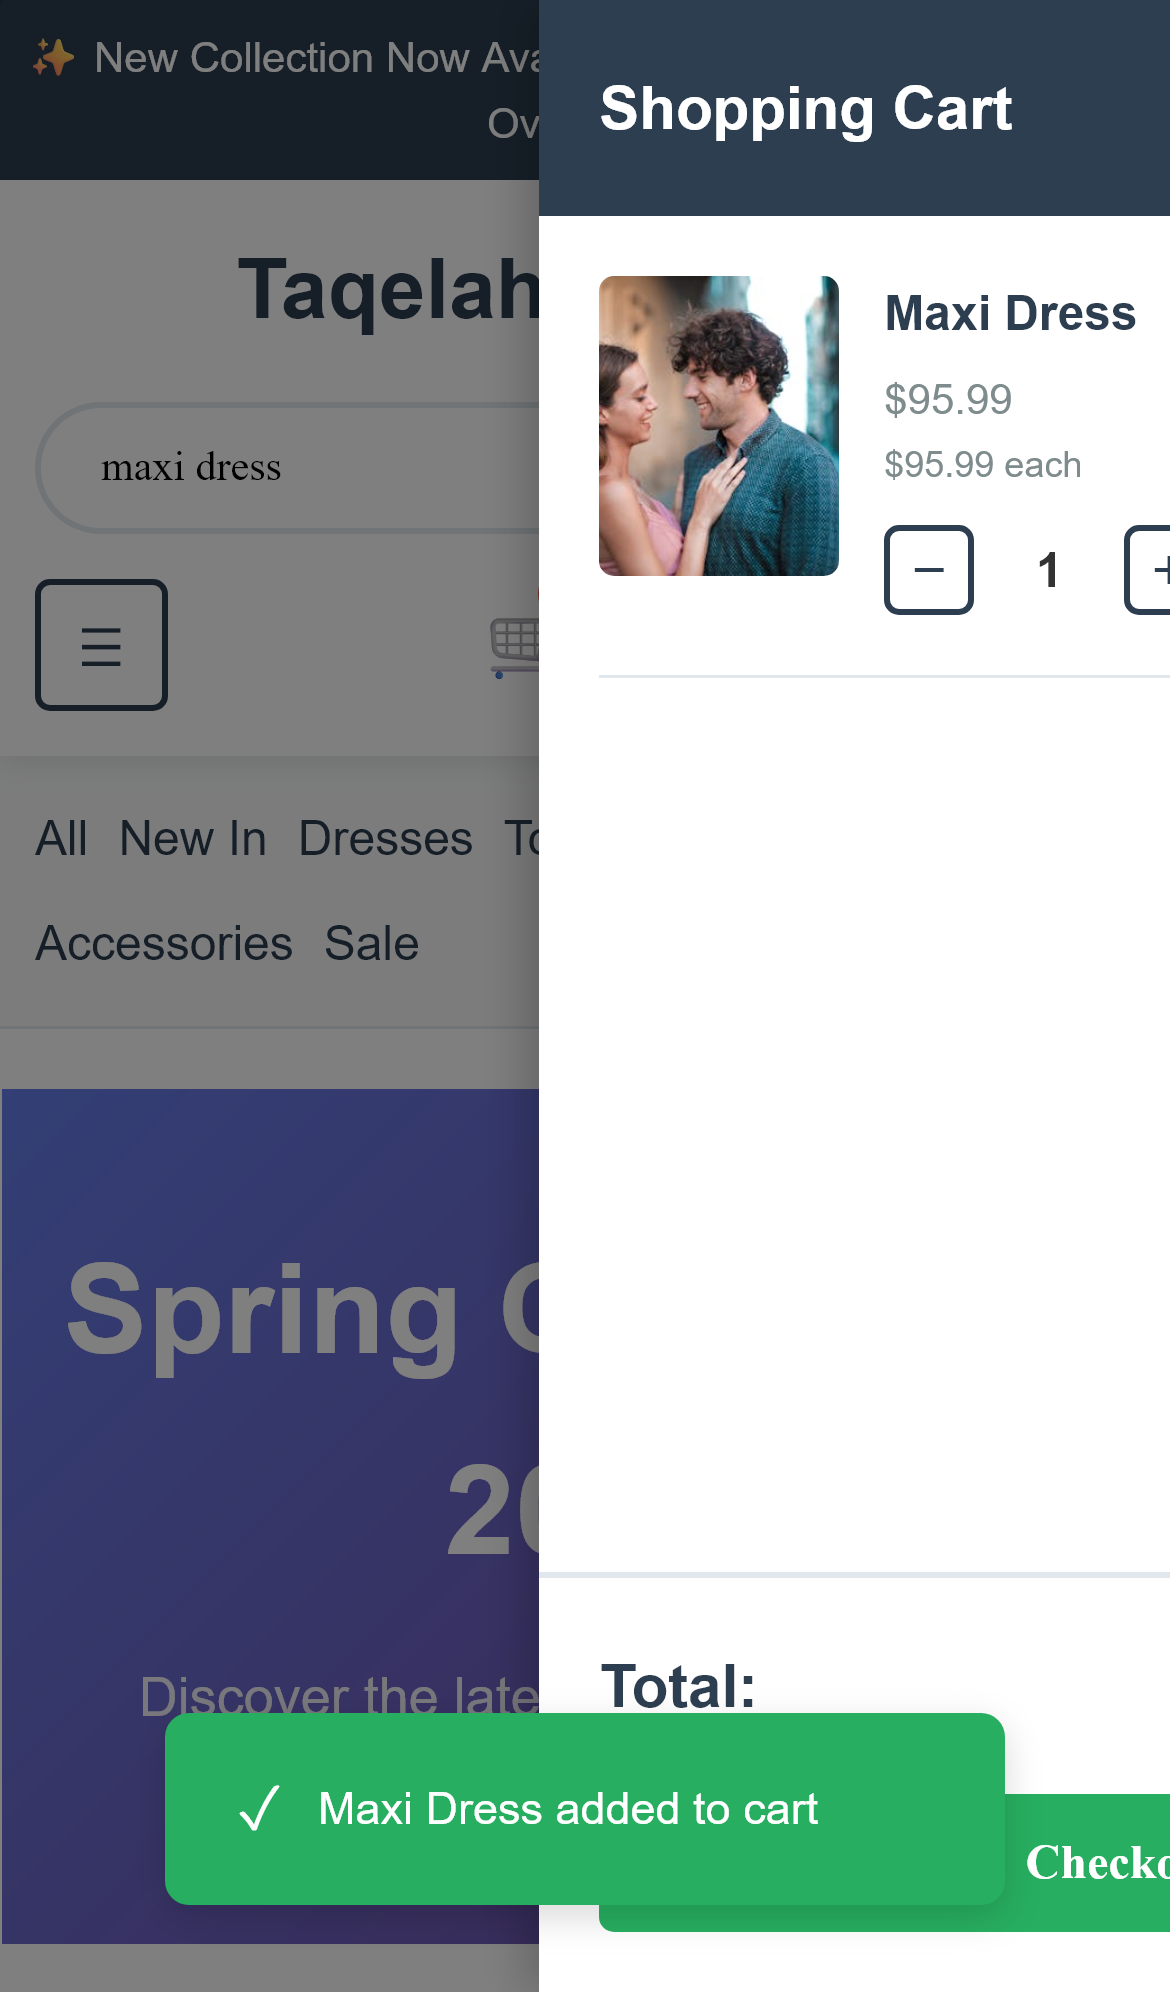
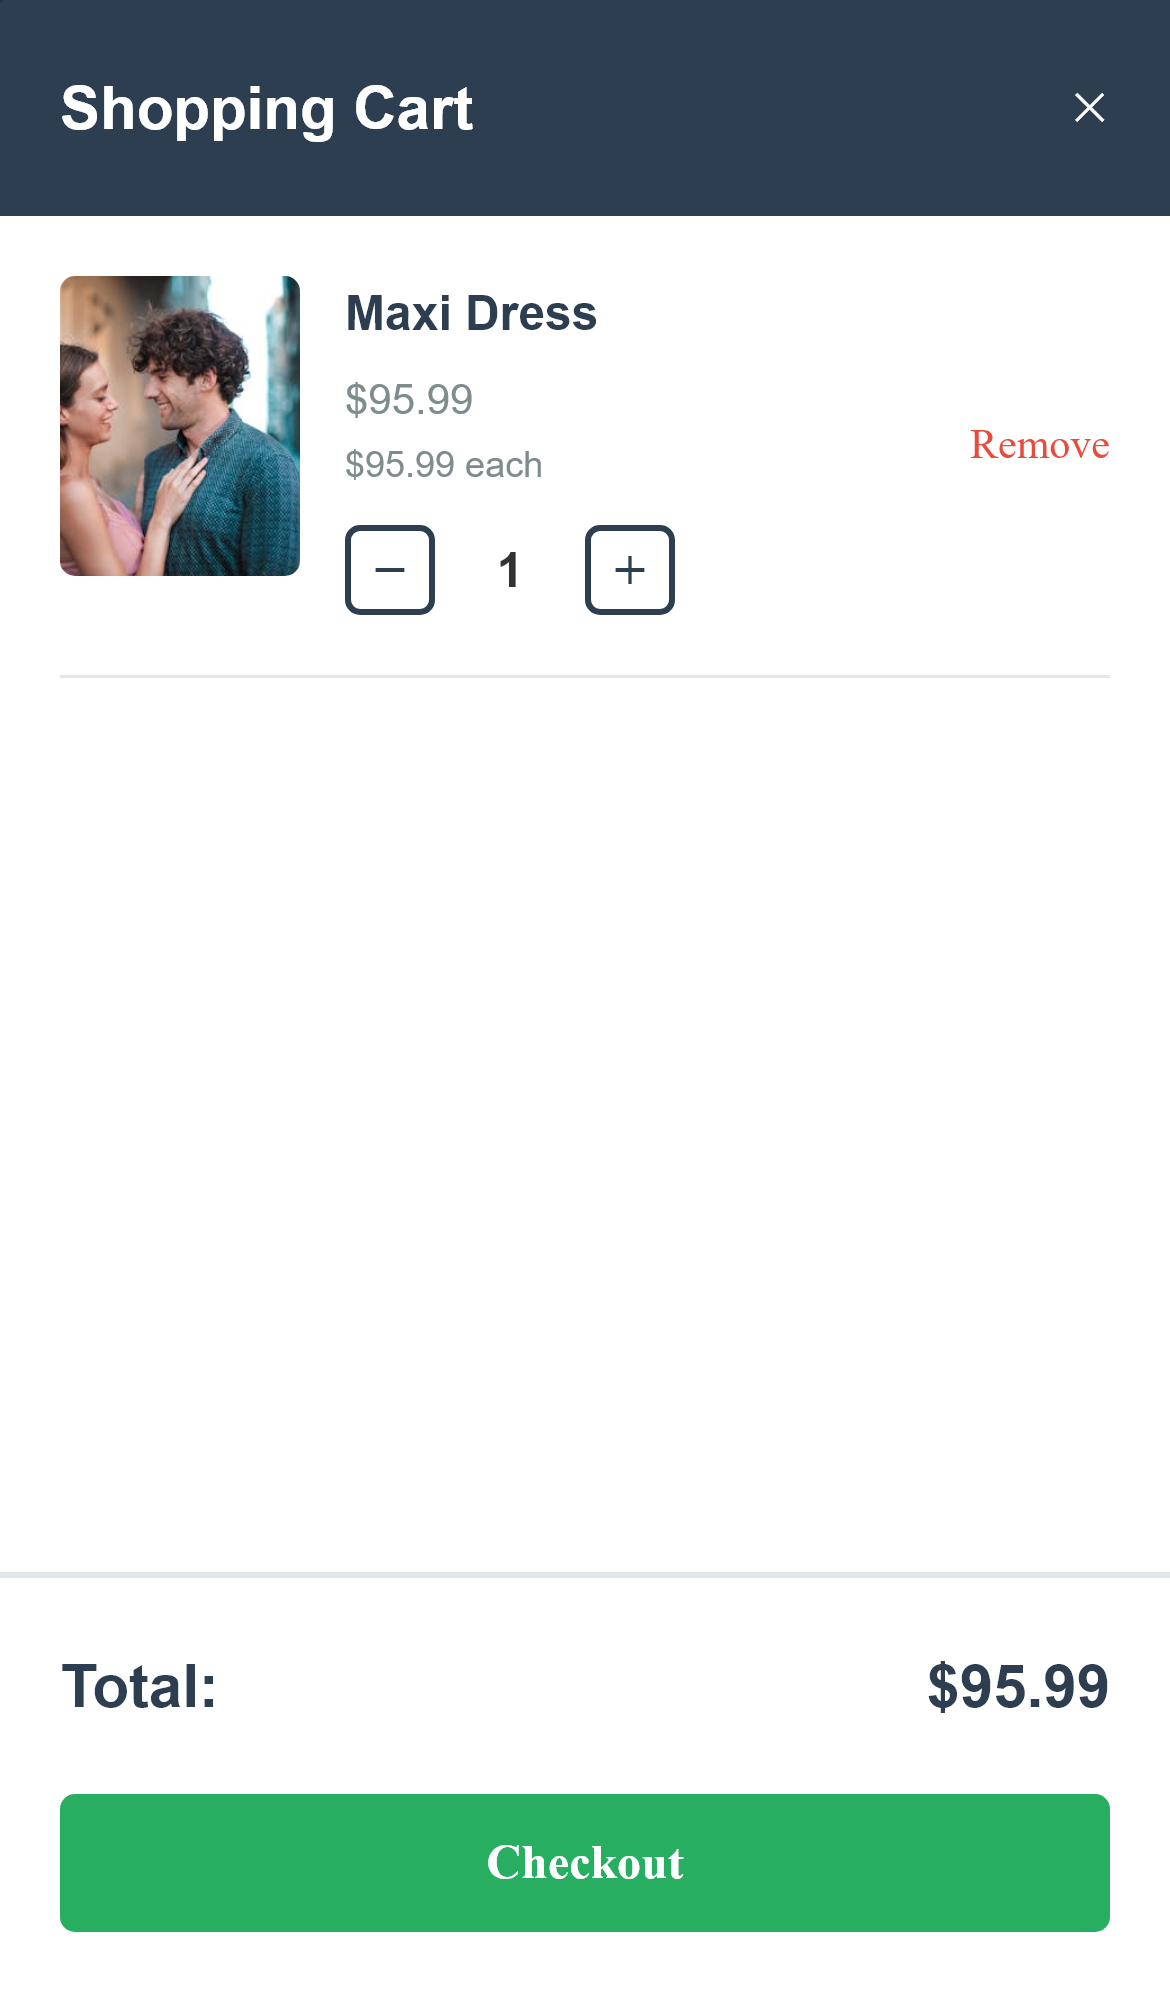
fix(mobile): resolve visual regression bugs in navigation.mobile.spec.ts
- Fix screenshot placement in 'should display mobile-optimized cart': moved
  page.screenshot() before checkout tap so it captures the cart view, not
  the checkout form
- Fix remove button locator: replace broken getByTestId('remove-item') with
  getByText('Remove'); remove silent if-guard so removal is now unconditional
- Fix landscape orientation: replace read-only window.orientation + DOM event
  (no-op in Playwright) with page.setViewportSize() swapping width/height,
  producing a true 844x390 landscape viewport on iPhone 13
- Dismiss add-to-cart toast before all screenshots by hiding the toast parent
  element via page.evaluate(); prevents green notification overlay in captures
- Clear taqelahCart in localStorage after login in beforeEach to prevent
  server-restored cart state bleeding between tests

docs: add CLAUDE.md with build commands, project architecture, and test
project reference table; credentials and sensitive paths scrubbed for
public repository safety

diff --git a/tests/mobile/navigation.mobile.spec.ts b/tests/mobile/navigation.mobile.spec.ts
@@ -7,13 +7,16 @@ test.describe('Mobile Navigation', () => {
     test.skip(!isMobile, 'This test is for mobile only');
 
     await page.goto('/taqelah-demo-site.html');
-    
+
     // Login
     await page.getByTestId('username-input').fill('ladies');
     await page.getByTestId('password-input').fill('ladies_GO');
     await page.getByTestId('login-button').tap();
 
     await expect(page.getByTestId('search-input')).toBeVisible();
+
+    // Clear cart after login so any server-restored cart state doesn't bleed into tests
+    await page.evaluate(() => localStorage.setItem('taqelahCart', '[]'));
   });
 
   test('should open mobile filter menu', async ({ page }) => {
@@ -70,13 +73,19 @@ test.describe('Mobile Navigation', () => {
     await expect(cartItems).toBeVisible();
     await expect(cartItems.getByText('Maxi Dress')).toBeVisible();
 
+    // Dismiss add-to-cart toast before capturing cart state
+    await page.evaluate(() => {
+      const toast = document.getElementById('toastMessage');
+      if (toast && toast.parentElement) toast.parentElement.style.display = 'none';
+    });
+
+    // Take mobile screenshot of cart view
+    await page.screenshot({ path: 'screenshots/mobile-cart.png' });
+
     // Proceed to checkout
     const cartPage = new CartPage(page);
     await cartPage.checkoutButton.tap();
     await expect(page.getByTestId('checkout-form')).toBeVisible();
-
-    // Take mobile screenshot
-    await page.screenshot({ path: 'screenshots/mobile-cart.png' });
   });
 
   test('should allow cart operations (update quantity and remove items)', async ({ page }) => {
@@ -105,12 +114,16 @@ test.describe('Mobile Navigation', () => {
     const totalPrice = page.getByTestId('cart-total');
     await expect(totalPrice).toBeVisible();
 
+    // Dismiss add-to-cart toast before interacting with remove
+    await page.evaluate(() => {
+      const toast = document.getElementById('toastMessage');
+      if (toast && toast.parentElement) toast.parentElement.style.display = 'none';
+    });
+
     // Remove item from cart
-    const removeButton = cartItems.getByTestId('remove-item');
-    if (await removeButton.isVisible()) {
-      await removeButton.tap();
-      await expect(cartItems.getByText('Maxi Dress')).not.toBeVisible();
-    }
+    const removeButton = cartItems.getByText('Remove');
+    await removeButton.tap();
+    await expect(cartItems.getByText('Maxi Dress')).not.toBeVisible();
 
     // Take screenshot of empty cart
     await page.screenshot({ path: 'screenshots/mobile-cart-empty.png' });
@@ -131,14 +144,18 @@ test.describe('Mobile Navigation', () => {
     const cartItems = page.getByTestId('cart-items');
     await expect(cartItems).toBeVisible();
     await expect(cartItems.getByText('Maxi Dress')).toBeVisible();
+
+    // Dismiss add-to-cart toast before capturing layout
+    await page.evaluate(() => {
+      const toast = document.getElementById('toastMessage');
+      if (toast && toast.parentElement) toast.parentElement.style.display = 'none';
+    });
+
     await page.screenshot({ path: 'screenshots/mobile-cart-portrait.png' });
 
-    // Change to landscape orientation
-    await page.evaluate(() => {
-      window.orientation = 90;
-      window.dispatchEvent(new Event('orientationchange'));
-    });
-    await page.waitForTimeout(500); // Wait for layout adjustment
+    // Change to landscape orientation by swapping the viewport dimensions
+    const viewport = page.viewportSize();
+    await page.setViewportSize({ width: viewport!.height, height: viewport!.width });
 
     // Verify cart layout is still visible in landscape
     await expect(cartItems).toBeVisible();

diff --git a/CLAUDE.md b/CLAUDE.md
@@ -1,0 +1,103 @@
+# CLAUDE.md
+
+This file provides guidance to Claude Code (claude.ai/code) when working with code in this repository.
+
+## Project Overview
+
+Playwright + TypeScript test suite for [Taqelah Boutique](https://taqelah.sg) — a fashion e-commerce site. Tests cover UI functional flows, API CRUD operations, API mocking/network interception, visual regression, smoke, regression, and mobile testing.
+
+## Commands
+
+```bash
+# Install dependencies
+npm ci
+
+# Install Playwright browsers
+npx playwright install --with-deps
+
+# Run all tests
+npm test
+
+# Run a specific test file
+npx playwright test tests/functional/taqelah-login.spec.ts
+
+# Run a specific project
+npx playwright test --project=smoke-chromium
+npx playwright test --project=api-local
+npx playwright test --project=api-mocking
+
+# Run by category (npm scripts)
+npm run test:smoke
+npm run test:regression
+npm run test:mobile
+npm run test:visual
+
+# Update visual snapshots
+npm run test:visual:update
+
+# Debug a test interactively
+npm run test:debug
+
+# Open Playwright UI mode
+npm run test:ui
+
+# View last HTML report
+npm run report
+```
+
+## Architecture
+
+### Test Projects (playwright.config.ts)
+
+There are 16 test projects, split by purpose:
+
+| Project | Match Pattern | Notes |
+|---|---|---|
+| `main-desktop-*` | All specs | Chrome/Firefox/Safari desktop |
+| `mobile-safari`, `mobile-chrome` | All specs | iPhone 13 / Pixel 5 emulation |
+| `smoke-*` | `smoke/**` | Fast critical-path checks |
+| `regression` | `regression/**` | Full workflow tests (Chromium only) |
+| `visual-tests`, `visual-mobile`, `visual-tablet`, `visual-widescreen` | `visual/**` | Screenshot comparison |
+| `api-local` | `api-inventory/**` | Hits `localhost:8080`, runs **serially** (1 worker) |
+| `api-mocking` | `api-mocking/**` | Network interception tests |
+
+### Global Setup / Auth
+
+`global-setup.ts` runs once before all non-API tests:
+- Launches Chromium, logs in using credentials from `test-data/users.json` at the demo site
+- Saves browser storage state to `.auth/taqelah-user.json`
+- Most test projects load this stored auth via `storageState`
+
+`global-teardown.ts` preserves the auth file for debugging (deletion is commented out).
+
+### Page Object Model
+
+All page classes live in `tests/pages/` and extend `BasePage` (which provides `navigateTo`, `wait`, `isElementVisible`). Import them via the barrel `tests/pages/index.ts`.
+
+### Test Data
+
+- `test-data/users.json` — test user accounts, expected roles, promo codes
+- `test-data/checkout-scenarios.json` — checkout flow scenarios
+- `test-data/products.csv` — product search terms and expected results (parsed with `csv-parse`)
+
+### Custom Fixtures (`fixtures/`)
+
+- `visual-fixture.ts` — `stablePage` fixture: waits for `networkidle`, fonts, and all images before taking screenshots
+- `worker-fixture.ts` — `uniqueEmail` fixture: generates a worker-scoped unique email
+- `test-options.ts` — custom CLI options `--environment` (staging|production) and `--userType` (customer|guest)
+
+### CI/CD
+
+`.github/workflows/playwright.yml`:
+- Runs on `push` and `pull_request` on `windows-latest`
+- 3-way sharding (`--shard=1/3`, `2/3`, `3/3`) for parallelism
+- Merges blob reports from shards into a single HTML report artifact
+- CI uses 1 worker and 2 retries; local uses 4 workers and 0 retries
+
+## Key Config Values
+
+- **Base URL**: `https://taqelah.sg`
+- **API local base URL**: `http://localhost:8080`
+- **Default timeout**: 20 seconds
+- **Visual diff threshold**: 5% pixel ratio, 10% color difference, 20% snapshot threshold
+- **Headless**: `false` in config (override with `--headed=false` or CI env detection)
